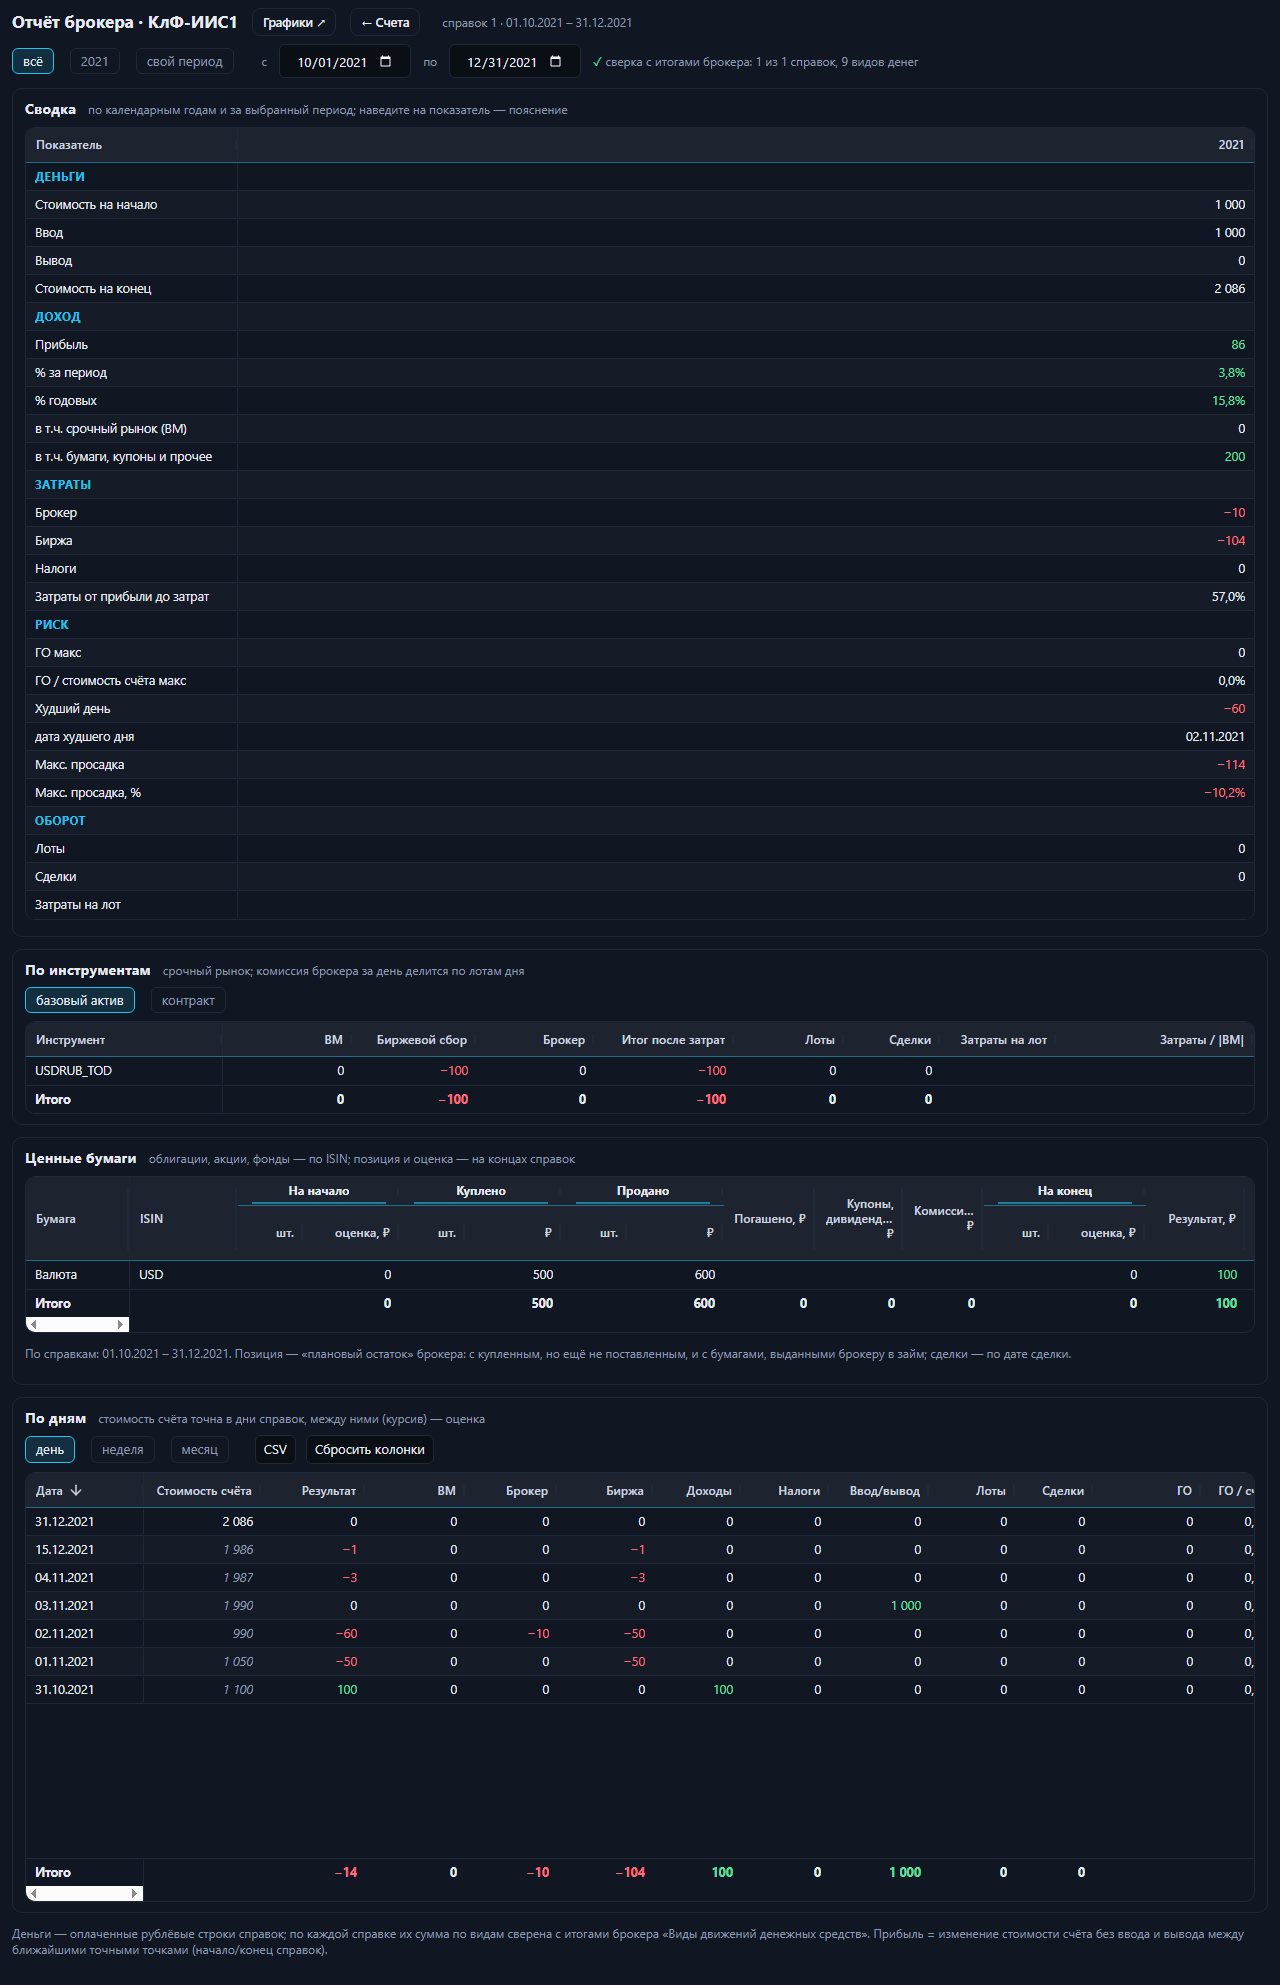
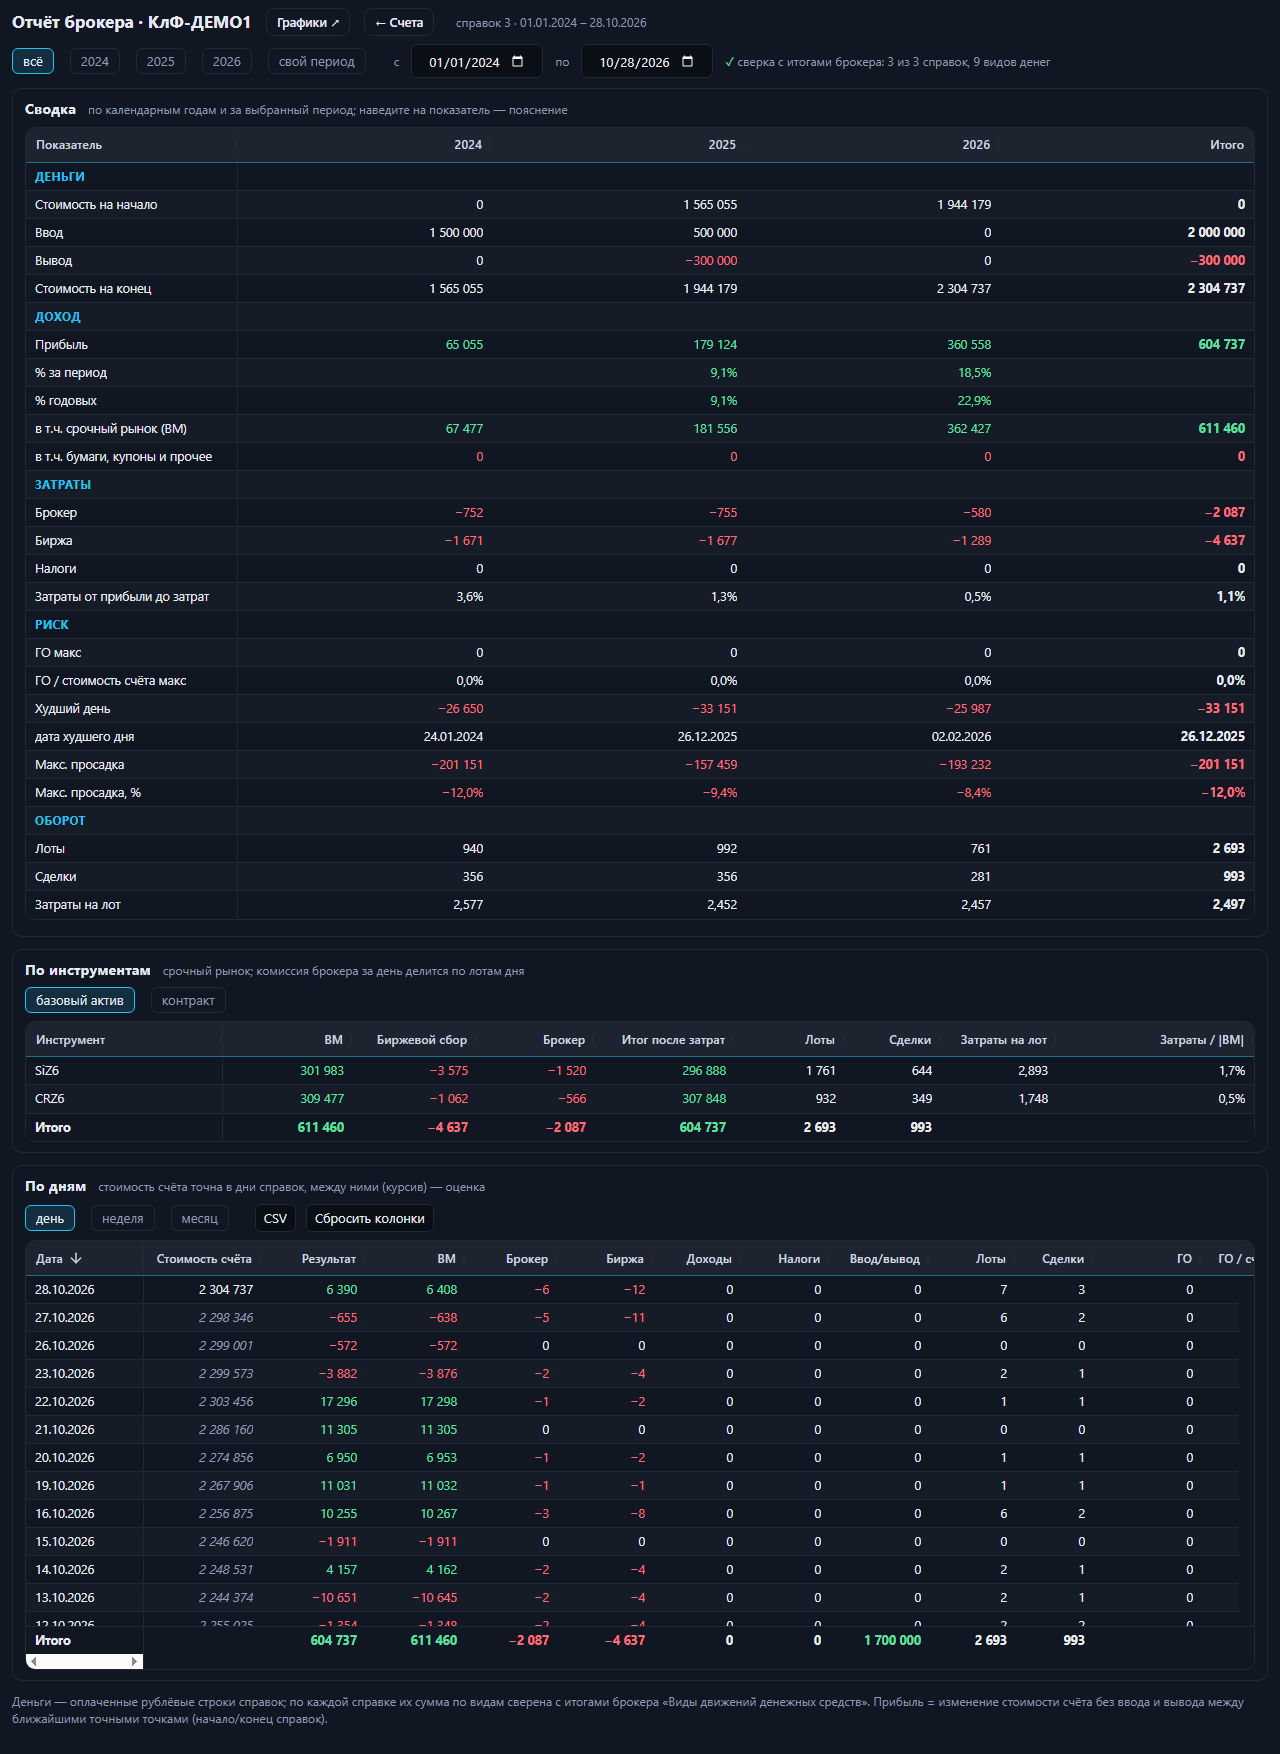
README: скриншот окна «Графики»; скриншоты на вымышленном демо-счёте (tests/demo_data.py: 3 годовые справки, Si и CR, ежедневная ВМ) + тест сверки демо

diff --git a/tests/demo_data.py b/tests/demo_data.py
@@ -1,0 +1,100 @@
+"""Вымышленный демо-счёт «КлФ-ДЕМО1» для скриншотов README: годовые справки со сделками по фьючерсам Si и CR,
+ежедневной вариационной маржой, сборами, комиссией брокера, вводом и выводом. Реальных данных нет.
+
+python tests/demo_data.py <папка>   — записать справки demo-<год>.xls
+"""
+import datetime as dt
+import random
+import sys
+from pathlib import Path
+
+ACC = "КлФ-ДЕМО1"
+
+
+def _ru(x: float) -> str:
+    s = f"{abs(x):,.2f}".replace(",", " ").replace(".", ",")
+    return ("-" if x < 0 else "") + s
+
+
+def _t(title: str, rows: list) -> str:
+    body = "".join("<tr>" + "".join(f"<td>{c}</td>" for c in r) + "</tr>" for r in rows)
+    return f"<p>{title}</p><table>{body}</table>"
+
+
+def _days(d0: dt.date, d1: dt.date):
+    d = d0
+    while d <= d1:
+        if d.weekday() < 5:
+            yield d
+        d += dt.timedelta(days=1)
+
+
+def reports(today: dt.date | None = None, seed: int = 7) -> list[tuple[str, str]]:
+    """[(имя файла, html)] — справки по календарным годам с 2024 по вчера."""
+    rnd = random.Random(seed)
+    end = (today or dt.date.today()) - dt.timedelta(days=1)
+    eq, out, no = 0.0, [], 1000
+    for year in range(2024, end.year + 1):
+        d0, d1 = dt.date(year, 1, 1), min(dt.date(year, 12, 31), end)
+        eq0 = eq
+        pfi, nontrade = [], []
+        tot = dict(dep=0.0, wd=0.0, vm=0.0, exch=0.0, broker=0.0)
+        if year == 2024:
+            nontrade.append([d0.replace(day=9).strftime("%d.%m.%Y"), "Ввод ДС", "", "Рубль", _ru(1_500_000), "",
+                             _ru(1_500_000), ""])
+            tot["dep"] += 1_500_000
+        if year == 2025:
+            nontrade.append(["15.04.2025", "Ввод ДС", "", "Рубль", _ru(500_000), "", _ru(500_000), ""])
+            tot["dep"] += 500_000
+            nontrade.append(["10.12.2025", "Вывод ДС", "", "Рубль", "", _ru(300_000), _ru(-300_000), ""])
+            tot["wd"] += 300_000
+        for d in _days(d0, d1):
+            ds = d.strftime("%d.%m.%Y")
+            if d < dt.date(2024, 1, 10):
+                continue
+            # ВМ дня по двум контрактам: случайное блуждание с небольшим положительным сносом
+            for code, scale, drift in (("SiZ6", 9000, 420), ("CRZ6", 4000, 120)):
+                vm = round(rnd.gauss(drift, scale), 2)
+                pfi.append([ds, "", "Фьючерсы, Расчетный", code, "Вариационная маржа", "", "", "", "", "",
+                            _ru(vm), "", "Рубль", ds, "", "", "", ""])
+                tot["vm"] += vm
+            # сделки: 0–3 в день, сбор биржи со сделки
+            fees = 0.0
+            for _ in range(rnd.choice((0, 1, 1, 2, 3))):
+                code = rnd.choice(("SiZ6", "SiZ6", "CRZ6"))
+                qty = rnd.choice((1, 2, 3, 5))
+                price = 90_000 + rnd.randint(-5000, 5000) if code.startswith("Si") else 12_000 + rnd.randint(-800, 800)
+                fee = round(qty * (2.03 if code.startswith("Si") else 1.14), 2)
+                no += 1
+                pfi.append([ds, f"{rnd.randint(10, 23)}:{rnd.randint(0, 59):02d}:00", "Фьючерсы, Расчетный", code,
+                            rnd.choice(("Покупка", "Продажа")), str(qty), _ru(price), "Пункты", "", _ru(fee), "0,00",
+                            "", "Рубль", ds, "СР", "", str(no), ""])
+                tot["exch"] -= fee
+                fees += fee
+            if fees:
+                br = round(fees * 0.45, 2)
+                pfi.append([ds, "", "", "", "Комиссия брокерская", "", "", "", "", _ru(br), "", "", "Рубль", "", "", "",
+                            "", "Комиссия брокера по сделкам ПФИ"])
+                tot["broker"] -= br
+        tot = {k: round(v, 2) for k, v in tot.items()}
+        eq = round(eq0 + tot["dep"] - tot["wd"] + tot["vm"] + tot["exch"] + tot["broker"], 2)
+        flows = ["Рубль", _ru(tot["dep"]), _ru(tot["wd"]), "0,00", "0,00", "0,00", "0,00", "0,00", "0,00",
+                 _ru(tot["vm"]), "0,00", _ru(tot["exch"]), "0,00", _ru(tot["broker"]), "0,00", "0,00", "0,00", "0,00"]
+        html = ("<html>" + _t(f"Справка о состоянии обязательств за период c {d0:%d.%m.%Y} по {d1:%d.%m.%Y}",
+                              [["По счету:", ACC]])
+                + _t("1. Оценка состояния счета Клиента", [["ИТОГО оценка", _ru(eq0), _ru(eq)]])
+                + _t("Виды движений денежных средств", [flows])
+                + _t("2. Движения по счету Клиента Неторговые операции с денежными средствами",
+                     [["Дата", "Тип операции", "Инструмент", "Валюта", "Зачислено", "Списано", "Оценка", "Комментарии"]]
+                     + nontrade)
+                + _t("Торговые движения ПФИ, в т.ч. Комиссии", pfi) + "</html>")
+        out.append((f"demo-{year}.xls", html))
+    return out
+
+
+if __name__ == "__main__":
+    p = Path(sys.argv[1])
+    p.mkdir(parents=True, exist_ok=True)
+    for name, html in reports():
+        (p / name).write_text(html, encoding="utf-8")
+        print(p / name)

diff --git a/tests/test_demo_data.py b/tests/test_demo_data.py
@@ -1,0 +1,20 @@
+"""Демо-счёт для скриншотов README разбирается без нераспознанного и сходится с итогами брокера."""
+import datetime as dt
+import sys
+from pathlib import Path
+
+sys.path.insert(0, str(Path(__file__).resolve().parent))
+sys.path.insert(0, str(Path(__file__).resolve().parent.parent))
+from brep import brep_parse as bp  # noqa: E402
+from demo_data import ACC, reports  # noqa: E402
+
+
+def test_demo_reports_reconcile_and_chain():
+    rs = [bp.parse_report(h, n) for n, h in reports(dt.date(2026, 10, 29))]
+    assert [r["from"] for r in rs] == ["2024-01-01", "2025-01-01", "2026-01-01"] and rs[-1]["to"] == "2026-10-28"
+    for r in rs:
+        assert r["unknown"] == {}
+        assert {k: v for k, v in bp.reconcile(r).items() if abs(v[2]) > 0.005} == {}
+    for a, b in zip(rs, rs[1:]):
+        assert a["equity"][1] == b["equity"][0]          # конец справки = начало следующей
+    assert any(ch.isdigit() for ch in ACC)               # адрес счёта в программе — по цифрам номера

diff --git a/README.md b/README.md
@@ -31,6 +31,14 @@
 
 ![Отчёт по счёту](docs/screenshots/report.png)
 
+Окно «Графики» (кнопка «Графики ↗» у счёта): доходность без влияния ввода и вывода, просадка, стоимость счёта
+с отметками ввода и вывода, доходность по месяцам, из чего сложилась прибыль, затраты по месяцам и на лот,
+результат по инструментам. Период выбирается кнопками годов или датами, шкала — обычная или логарифмическая.
+
+![Графики](docs/screenshots/charts.png)
+
+Скриншоты сняты на вымышленном счёте «КлФ‑ДЕМО1» (`tests/demo_data.py`), реальных данных в них нет.
+
 ## Установка
 
 1. Скачайте `BrokerReport-<версия>-win64.zip` со страницы [Releases](../../releases) и сверьте контрольную
